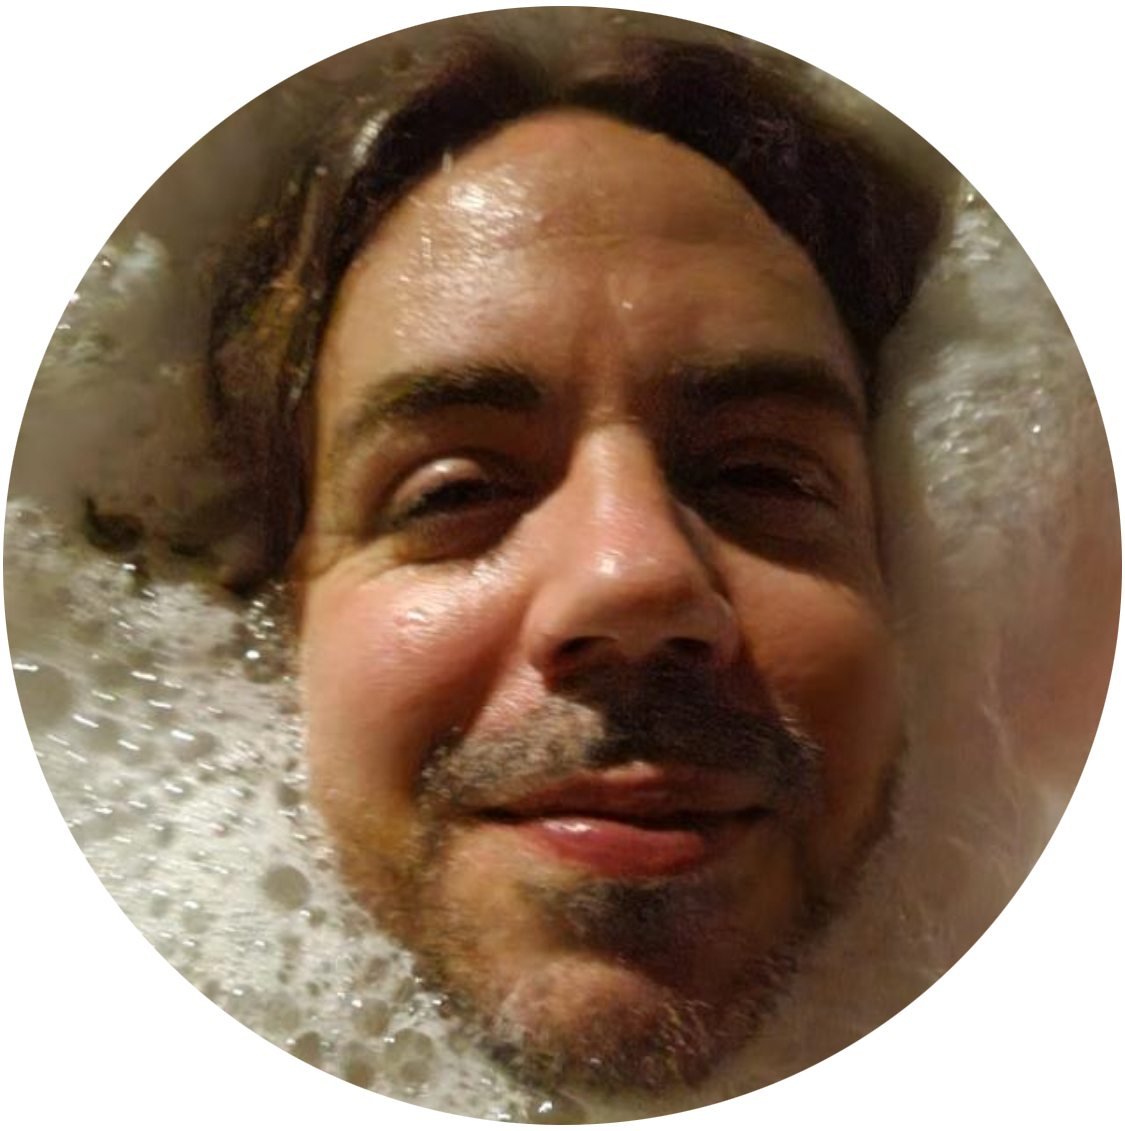
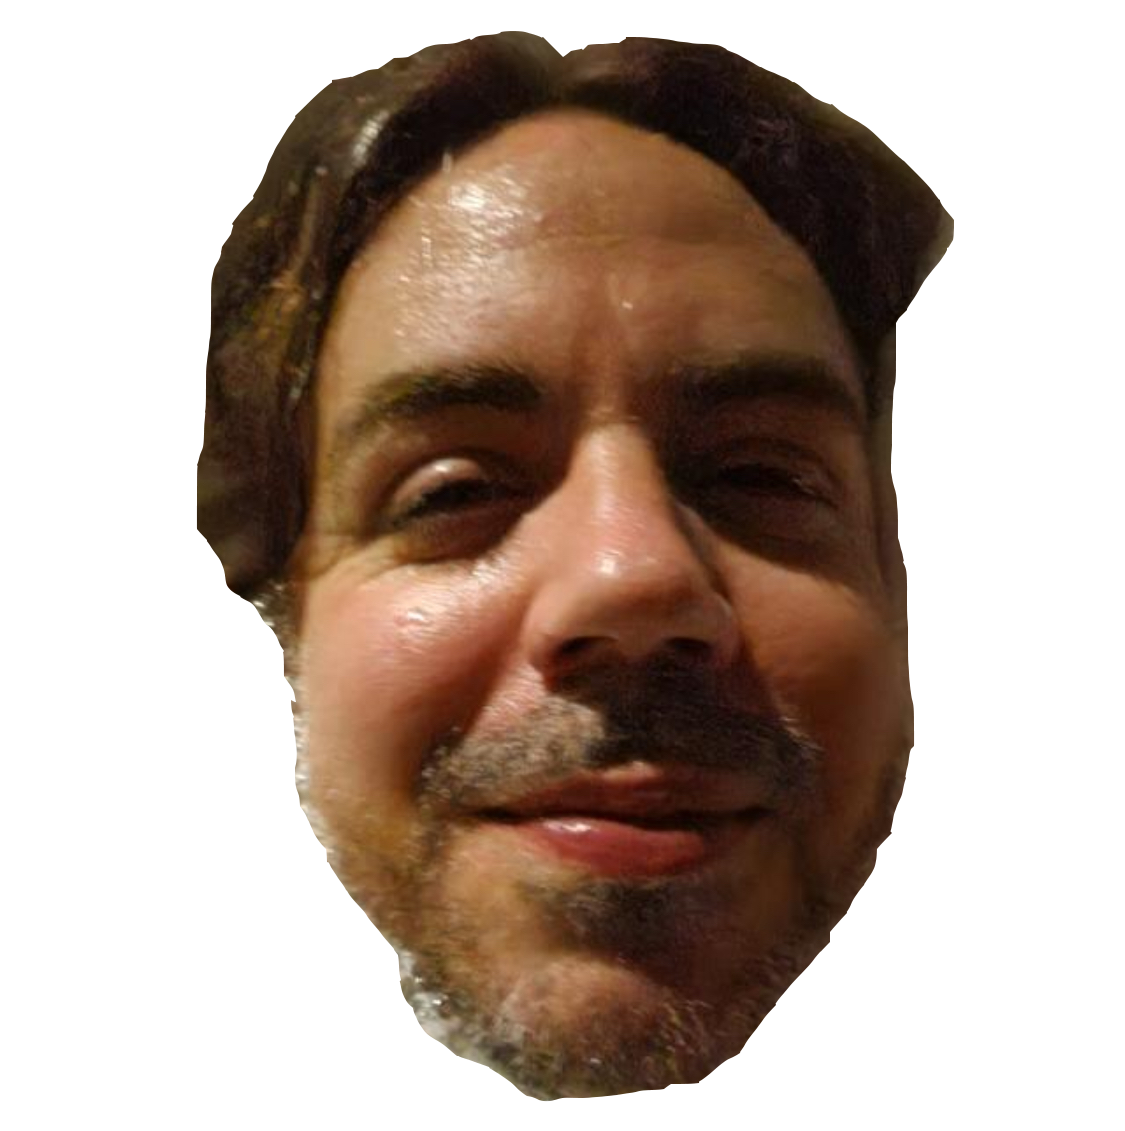
rollback with fix

Changed region(s): [[0.0, 0.0, 1.0, 1.0]]

diff --git a/renderer/app.js b/renderer/app.js
@@ -7,7 +7,7 @@ const encoder = new TextEncoder()
 runSplash(bridge.pkg().version)
 
 const pearImage = new Image()
-pearImage.src = '../assets/dave.png'
+pearImage.src = '../assets/pear.png'
 
 const WORKER = '/workers/main.js'
 
@@ -18,6 +18,12 @@ function sendToWorker(msg) {
 bridge.startWorker(WORKER)
 
 let shouldReload = false
+let joinCode = { topic: '', flushed: false }
+
+function renderJoinCode() {
+  const { topic, flushed } = joinCode
+  document.querySelector('#game-topic').textContent = topic && (flushed ? topic : 'announcing...')
+}
 
 function showUpdating() {
   const banner = document.querySelector('#update-banner')
@@ -70,11 +76,15 @@ bridge.onWorkerIPC(WORKER, (data) => {
     showUpdateFailed(msg.error)
   } else if (msg.type === 'ready') {
     const topicBuffer = hexToBytes(msg.topic)
-    document.querySelector('#game-topic').innerText = msg.topic
+    joinCode = { topic: msg.topic, flushed: false }
+    renderJoinCode()
     document.querySelector('#loading').classList.add('hidden')
     document.querySelector('#game').classList.remove('hidden')
     hideGameOver()
     game.start(msg.id, topicBuffer)
+  } else if (msg.type === 'flushed' && msg.topic === joinCode.topic) {
+    joinCode.flushed = true
+    renderJoinCode()
   } else if (msg.type === 'connected') {
     game.addPeer(msg.id)
   } else if (msg.type === 'disconnected') {
@@ -125,11 +135,12 @@ function joinGame(e) {
 }
 
 function leaveGame() {
+  joinCode = { topic: '', flushed: false }
+  renderJoinCode()
   sendToWorker({ type: 'leave' })
   document.querySelector('pear-snake').leave()
   hideGameOver()
   document.querySelector('#peers-count').textContent = 0
-  document.querySelector('#game-topic').innerText = ''
   document.querySelector('#game').classList.add('hidden')
   document.querySelector('#setup').classList.remove('hidden')
 }

diff --git a/workers/main.js b/workers/main.js
@@ -91,7 +91,10 @@ async function joinGame(topicHex) {
   const id = b4a.toString(gameSwarm.keyPair.publicKey, 'hex').slice(0, 6)
   joined = topicBuffer
   const discovery = gameSwarm.join(topicBuffer, { client: true, server: true })
-  await discovery.flushed()
+  discovery
+    .flushed()
+    .then((flushed) => anounceFlushed(flushed, topicBuffer))
+    .catch(console.error)
   send({ type: 'ready', id, topic })
 }
 
@@ -128,6 +131,11 @@ pipe.on('data', async (data) => {
     }
   }
 })
+
+function anounceFlushed(flushed, topicBuffer) {
+  if (!flushed || joined !== topicBuffer) return
+  send({ type: 'flushed', topic: b4a.toString(topicBuffer, 'hex') })
+}
 
 goodbye(async () => {
   await gameSwarm.destroy()

diff --git a/renderer/index.html b/renderer/index.html
@@ -243,7 +243,7 @@
     <main>
       <div id="setup">
         <div id="title-row">
-          <img src="../assets/dave.png" alt="" />
+          <img src="../assets/pear.png" alt="" />
           <span>Snake</span>
         </div>
         <div>

diff --git a/README.md b/README.md
@@ -22,7 +22,8 @@ renderer (sandboxed)
 | ----------------- | --------------------------------- | ------------------------------------------- |
 | renderer → worker | `{ type: 'join', topic }`         | Join or create a game (null topic = create) |
 | renderer → worker | `{ type: 'send', data }`          | Broadcast game state to peers               |
-| worker → renderer | `{ type: 'ready', id, topic }`    | Swarm flushed, game can start               |
+| worker → renderer | `{ type: 'ready', id, topic }`    | Game can start while announcing its topic   |
+| worker → renderer | `{ type: 'flushed', topic }`      | Topic announced and ready to share          |
 | worker → renderer | `{ type: 'connected', id }`       | Peer joined                                 |
 | worker → renderer | `{ type: 'disconnected', id }`    | Peer dropped                                |
 | worker → renderer | `{ type: 'data', id, payload }`   | Game state from a peer                      |
